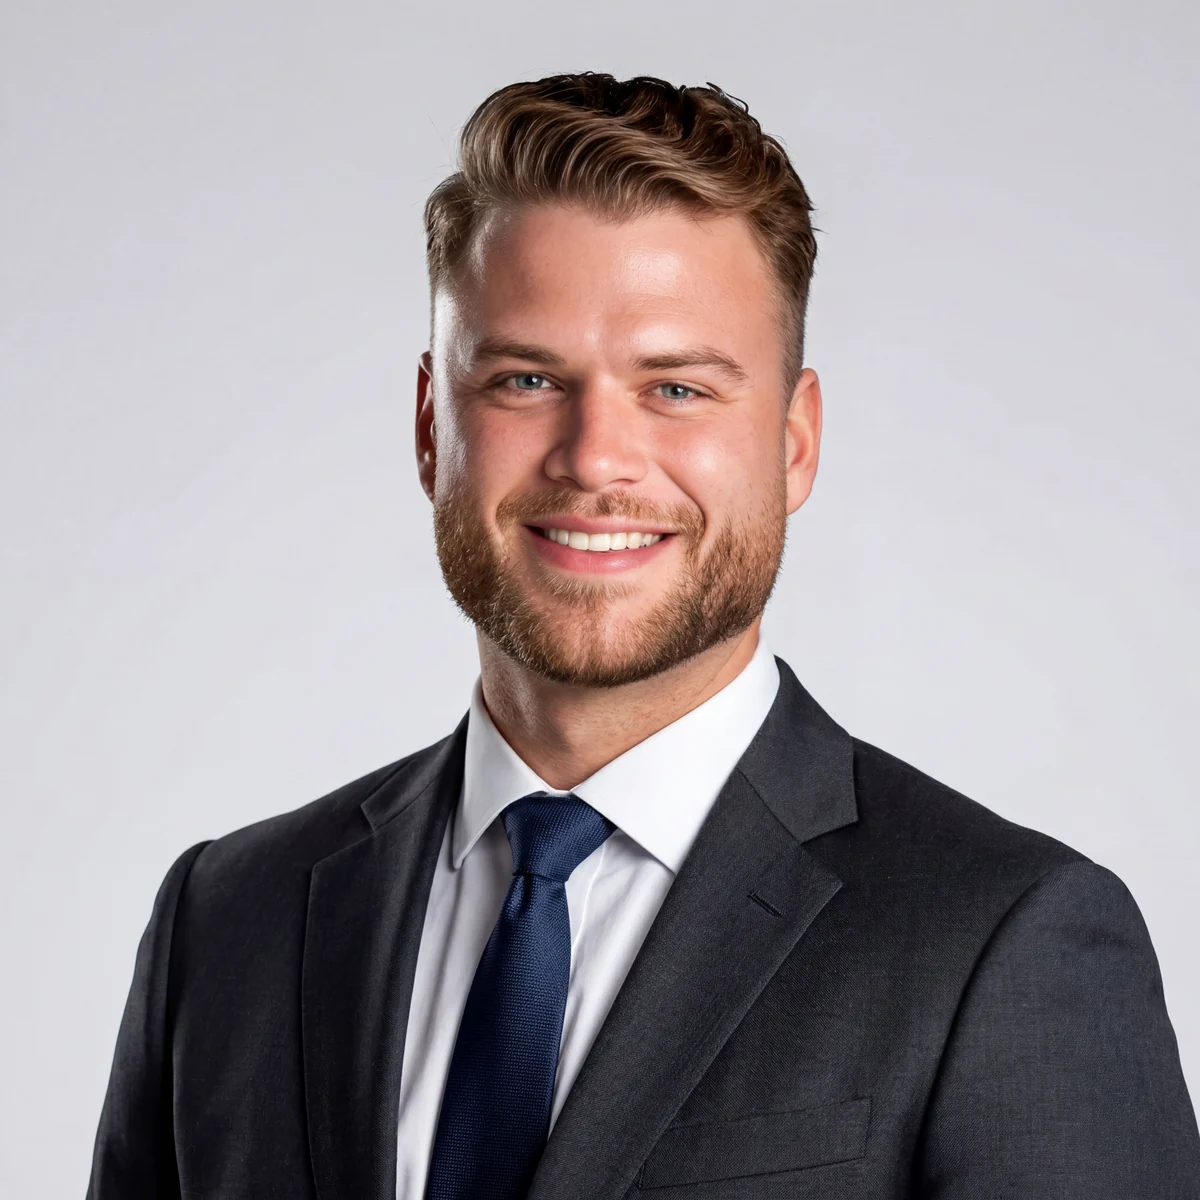
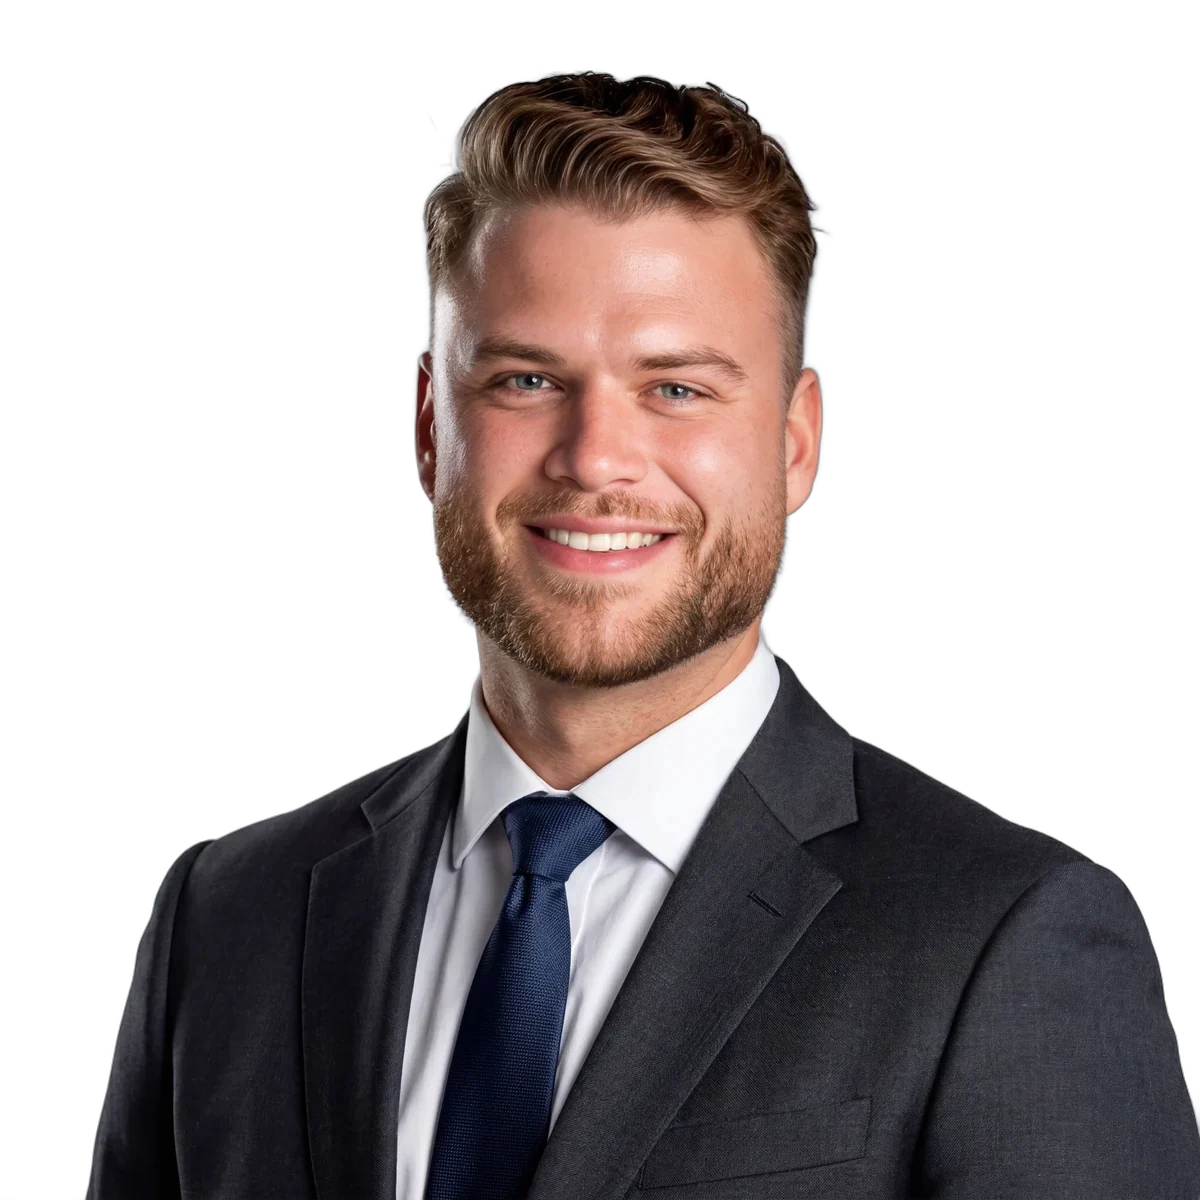
Team: Brooke 4th on the homepage, add Donya Taylor, one photo backdrop
Client feedback:
- Homepage "Meet The Team": Brooke Fontan is now 4th, as on the Team
  page (Reza, David, Mani, Brooke, then Christina, Boyd, Yassin).
- New team page /team/donya-taylor/ with her bio, photo, phone
  (847) 345-2536 and email, listed last on /our-team/.
- Justin Katz's and Monica Morfin's photos had their own grey and white
  backdrops; they are now cut out like everyone else's, so every team
  photo sits on the site's same background. Donya's photo is cut out
  and cropped to the same head-and-shoulders square.

Claude-Session: https://claude.ai/code/session_012xAG8BAo3bLEkNzUJ8XoRa

diff --git a/lib/data/team.ts b/lib/data/team.ts
@@ -427,4 +427,25 @@ export const fallbackTeam: TeamMember[] = [
       "description": "Monica Morfin is a Real Estate Associate at Capital Investment LLC, a commercial real estate firm with offices in Tysons, DC, Bethesda and Miami."
     }
   },
+  {
+    "slug": "donya-taylor",
+    "name": "Donya Taylor",
+    "role": "Real Estate Associate",
+    "order": 23,
+    "photo": {
+      "src": "/images/team/donya-taylor.webp",
+      "alt": "Donya Taylor, Real Estate Associate at Capital Investment LLC",
+      "width": 900,
+      "height": 900
+    },
+    "bio": [
+      "With over a decade of experience in the real estate industry, Donya brings extensive knowledge in residential and commercial real estate, investment properties, new construction, and remodeling. Licensed in both Illinois and Florida, she has a strong background in real estate transactions, property development, and investment opportunities.",
+      "Her diverse experience allows her to guide clients through buying, selling, and investing with confidence. With a strong understanding of market trends, property values, and construction costs, Donya is committed to providing exceptional service, building lasting relationships, and helping clients achieve their real estate goals.",
+      "Contact me:\nM: [(847) 345-2536](tel:+18473452536)\n[donya@capitalinvestmentllc.com](mailto:donya@capitalinvestmentllc.com)"
+    ],
+    "seo": {
+      "title": "Donya Taylor, Real Estate Associate | Capital Investment LLC",
+      "description": "Donya Taylor is a Real Estate Associate at Capital Investment LLC, a commercial real estate firm with offices in Tysons, DC, Bethesda and Miami."
+    }
+  },
 ];

diff --git a/lib/data/pages.ts b/lib/data/pages.ts
@@ -284,6 +284,15 @@ export const fallbackPages: Page[] = [
             }
           },
           {
+            "slug": "brooke-fontan",
+            "photo": {
+              "src": "/images/team/carousel/brooke-fontan.webp",
+              "alt": "Brooke Fontan, Vice President at Capital Investment LLC",
+              "width": 237,
+              "height": 243
+            }
+          },
+          {
             "slug": "christina-davies",
             "photo": {
               "src": "/images/team/carousel/christina-davies.webp",
@@ -306,15 +315,6 @@ export const fallbackPages: Page[] = [
             "photo": {
               "src": "/images/team/carousel/yassin-kadir.webp",
               "alt": "Yassin Kadir, Real Estate Associate at Capital Investment LLC",
-              "width": 237,
-              "height": 243
-            }
-          },
-          {
-            "slug": "brooke-fontan",
-            "photo": {
-              "src": "/images/team/carousel/brooke-fontan.webp",
-              "alt": "Brooke Fontan, Vice President at Capital Investment LLC",
               "width": 237,
               "height": 243
             }
